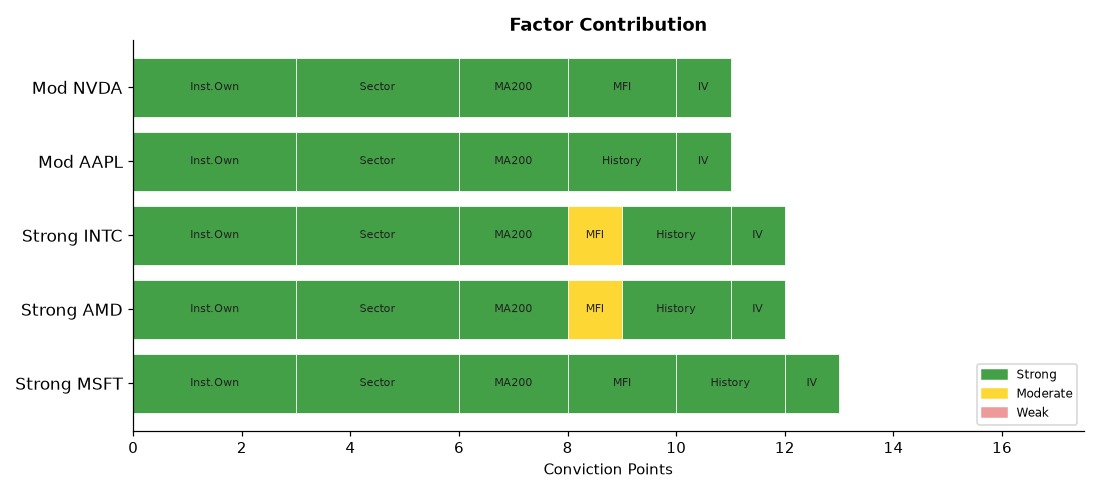
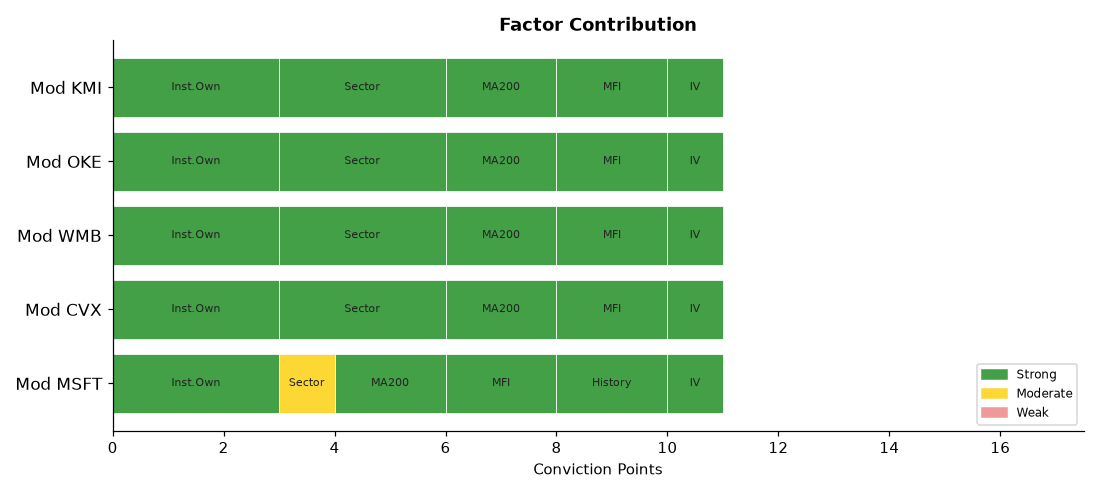
deploy: b7fadf5b06deb90e7ebb92f278722414bdd9750d

diff --git a/index.html b/index.html
@@ -4,7 +4,7 @@
   <meta charset="UTF-8">
   <meta name="viewport" content="width=device-width,initial-scale=1">
   <meta http-equiv="Cache-Control" content="no-cache,no-store,must-revalidate">
-  <title>Stock Breakout Screener — 2026-08-17 14:53</title>
+  <title>Stock Breakout Screener — 2026-08-17 17:32</title>
   <style>
     *{box-sizing:border-box;margin:0;padding:0}
     body{font-family:'Segoe UI',Arial,sans-serif;background:#f0f2f5;
@@ -34,20 +34,20 @@
 
 <div class="hdr">
   <h1>📈 Stock Breakout Screener</h1>
-  <p>Updated: 2026-08-17 14:53 UTC &nbsp;·&nbsp; Phase: Regular Market Hours &nbsp;·&nbsp;
+  <p>Updated: 2026-08-17 17:32 UTC &nbsp;·&nbsp; Phase: Regular Market Hours &nbsp;·&nbsp;
      129 stocks screened &nbsp;·&nbsp; Top 5 by conviction score</p>
 </div>
 
 <div class="card">
   <strong style="font-size:14px">Market Sentiment: 🐻 Bearish</strong>
   <div class="bar-wrap" style="margin-top:10px">
-    <div style="width:2%;background:#43a047"></div>
-    <div style="width:6%;background:#fdd835"></div>
+    <div style="width:0%;background:#43a047"></div>
+    <div style="width:8%;background:#fdd835"></div>
     <div style="width:92%;background:#e53935"></div>
   </div>
   <div style="font-size:12px;color:#555">
-    🟢 Strong 2% &nbsp;
-    🟡 Moderate 6% &nbsp;
+    🟢 Strong 0% &nbsp;
+    🟡 Moderate 8% &nbsp;
     🔴 Weak 92%
   </div>
 </div>
@@ -59,51 +59,17 @@
                     box-shadow:0 2px 6px rgba(0,0,0,.07)">
           <div style="display:flex;align-items:center;gap:10px;
                       flex-wrap:wrap;margin-bottom:10px">
-            <span style="font-size:22px">🟢</span>
+            <span style="font-size:22px">🟡</span>
             <span style="font-size:19px;font-weight:700">1. MSFT</span>
             <span style="font-size:12px;color:#666">Technology</span>
             <span style="margin-left:auto;background:#1a237e;color:#fff;
                          padding:3px 12px;border-radius:12px;
                          font-size:13px;font-weight:600">
-              13/17
+              11/17
             </span>
           </div>
           <ul style="margin:0;padding-left:18px;font-size:13px;
-                     color:#333;line-height:1.8"><li style="margin:5px 0"><span style="background:#ffebee;color:#b71c1c;padding:2px 7px;border-radius:4px;font-size:11px;">❌</span> Volume: <b>0.2× average</b> — Above-average activity</li><li style="margin:5px 0"><span style="background:#ffebee;color:#b71c1c;padding:2px 7px;border-radius:4px;font-size:11px;">❌</span> Candle: close <b>$482.66</b> vs open <b>$490.22</b> (-1.5%) — regular market close</li><li style="margin:5px 0"><span style="background:#e8f5e9;color:#2e7d32;padding:2px 7px;border-radius:4px;font-size:11px;">✅</span> 200-Day MA: price <b>$482.66</b> vs MA <b>$407.38</b> — <b>✅ Above</b> long-term trend</li><li style="margin:5px 0"><span style="background:#e8f5e9;color:#2e7d32;padding:2px 7px;border-radius:4px;font-size:11px;">✅</span> Inst. ownership: <b>75.9%</b> · MFI: <b>72.8</b> · Market cap: <b>$3585.2B</b></li><li style="margin:5px 0"><span style="background:#e8f5e9;color:#2e7d32;padding:2px 7px;border-radius:4px;font-size:11px;">✅</span> Last similar breakout: <b>Jul 30, 2026</b> → <b>+10.1%</b> over 10 trading days</li></ul>
-        </div>
-        <div style="background:#fff;border:1px solid #ddd;border-radius:10px;
-                    padding:16px 20px;margin-bottom:12px;
-                    box-shadow:0 2px 6px rgba(0,0,0,.07)">
-          <div style="display:flex;align-items:center;gap:10px;
-                      flex-wrap:wrap;margin-bottom:10px">
-            <span style="font-size:22px">🟢</span>
-            <span style="font-size:19px;font-weight:700">2. AMD</span>
-            <span style="font-size:12px;color:#666">Technology</span>
-            <span style="margin-left:auto;background:#1a237e;color:#fff;
-                         padding:3px 12px;border-radius:12px;
-                         font-size:13px;font-weight:600">
-              12/17
-            </span>
-          </div>
-          <ul style="margin:0;padding-left:18px;font-size:13px;
-                     color:#333;line-height:1.8"><li style="margin:5px 0"><span style="background:#ffebee;color:#b71c1c;padding:2px 7px;border-radius:4px;font-size:11px;">❌</span> Volume: <b>0.2× average</b> — Above-average activity</li><li style="margin:5px 0"><span style="background:#ffebee;color:#b71c1c;padding:2px 7px;border-radius:4px;font-size:11px;">❌</span> Candle: close <b>$510.53</b> vs open <b>$513.80</b> (-0.6%) — regular market close</li><li style="margin:5px 0"><span style="background:#e8f5e9;color:#2e7d32;padding:2px 7px;border-radius:4px;font-size:11px;">✅</span> 200-Day MA: price <b>$510.53</b> vs MA <b>$384.30</b> — <b>✅ Above</b> long-term trend</li><li style="margin:5px 0"><span style="background:#e8f5e9;color:#2e7d32;padding:2px 7px;border-radius:4px;font-size:11px;">✅</span> Inst. ownership: <b>75.4%</b> · MFI: <b>56.4</b> · Market cap: <b>$833.2B</b></li><li style="margin:5px 0"><span style="background:#e8f5e9;color:#2e7d32;padding:2px 7px;border-radius:4px;font-size:11px;">✅</span> Last similar breakout: <b>Apr 24, 2026</b> → <b>+30.9%</b> over 10 trading days</li></ul>
-        </div>
-        <div style="background:#fff;border:1px solid #ddd;border-radius:10px;
-                    padding:16px 20px;margin-bottom:12px;
-                    box-shadow:0 2px 6px rgba(0,0,0,.07)">
-          <div style="display:flex;align-items:center;gap:10px;
-                      flex-wrap:wrap;margin-bottom:10px">
-            <span style="font-size:22px">🟢</span>
-            <span style="font-size:19px;font-weight:700">3. INTC</span>
-            <span style="font-size:12px;color:#666">Technology</span>
-            <span style="margin-left:auto;background:#1a237e;color:#fff;
-                         padding:3px 12px;border-radius:12px;
-                         font-size:13px;font-weight:600">
-              12/17
-            </span>
-          </div>
-          <ul style="margin:0;padding-left:18px;font-size:13px;
-                     color:#333;line-height:1.8"><li style="margin:5px 0"><span style="background:#ffebee;color:#b71c1c;padding:2px 7px;border-radius:4px;font-size:11px;">❌</span> Volume: <b>0.3× average</b> — Above-average activity</li><li style="margin:5px 0"><span style="background:#ffebee;color:#b71c1c;padding:2px 7px;border-radius:4px;font-size:11px;">❌</span> Candle: close <b>$104.83</b> vs open <b>$103.70</b> (+1.1%) — regular market close</li><li style="margin:5px 0"><span style="background:#e8f5e9;color:#2e7d32;padding:2px 7px;border-radius:4px;font-size:11px;">✅</span> 200-Day MA: price <b>$104.83</b> vs MA <b>$87.50</b> — <b>✅ Above</b> long-term trend</li><li style="margin:5px 0"><span style="background:#e8f5e9;color:#2e7d32;padding:2px 7px;border-radius:4px;font-size:11px;">✅</span> Inst. ownership: <b>62.5%</b> · MFI: <b>56.2</b> · Market cap: <b>$553.3B</b></li><li style="margin:5px 0"><span style="background:#e8f5e9;color:#2e7d32;padding:2px 7px;border-radius:4px;font-size:11px;">✅</span> Last similar breakout: <b>Apr 29, 2026</b> → <b>+27.0%</b> over 10 trading days</li></ul>
+                     color:#333;line-height:1.8"><li style="margin:5px 0"><span style="background:#ffebee;color:#b71c1c;padding:2px 7px;border-radius:4px;font-size:11px;">❌</span> Volume: <b>0.4× average</b> — Above-average activity</li><li style="margin:5px 0"><span style="background:#ffebee;color:#b71c1c;padding:2px 7px;border-radius:4px;font-size:11px;">❌</span> Candle: close <b>$479.20</b> vs open <b>$490.22</b> (-2.2%) — regular market close</li><li style="margin:5px 0"><span style="background:#e8f5e9;color:#2e7d32;padding:2px 7px;border-radius:4px;font-size:11px;">✅</span> 200-Day MA: price <b>$479.20</b> vs MA <b>$407.35</b> — <b>✅ Above</b> long-term trend</li><li style="margin:5px 0"><span style="background:#e8f5e9;color:#2e7d32;padding:2px 7px;border-radius:4px;font-size:11px;">✅</span> Inst. ownership: <b>75.9%</b> · MFI: <b>71.9</b> · Market cap: <b>$3557.3B</b></li><li style="margin:5px 0"><span style="background:#e8f5e9;color:#2e7d32;padding:2px 7px;border-radius:4px;font-size:11px;">✅</span> Last similar breakout: <b>Jul 30, 2026</b> → <b>+10.1%</b> over 10 trading days</li></ul>
         </div>
         <div style="background:#fff;border:1px solid #ddd;border-radius:10px;
                     padding:16px 20px;margin-bottom:12px;
@@ -111,8 +77,8 @@
           <div style="display:flex;align-items:center;gap:10px;
                       flex-wrap:wrap;margin-bottom:10px">
             <span style="font-size:22px">🟡</span>
-            <span style="font-size:19px;font-weight:700">4. AAPL</span>
-            <span style="font-size:12px;color:#666">Technology</span>
+            <span style="font-size:19px;font-weight:700">2. CVX</span>
+            <span style="font-size:12px;color:#666">Energy</span>
             <span style="margin-left:auto;background:#1a237e;color:#fff;
                          padding:3px 12px;border-radius:12px;
                          font-size:13px;font-weight:600">
@@ -120,7 +86,7 @@
             </span>
           </div>
           <ul style="margin:0;padding-left:18px;font-size:13px;
-                     color:#333;line-height:1.8"><li style="margin:5px 0"><span style="background:#ffebee;color:#b71c1c;padding:2px 7px;border-radius:4px;font-size:11px;">❌</span> Volume: <b>0.6× average</b> — Above-average activity</li><li style="margin:5px 0"><span style="background:#ffebee;color:#b71c1c;padding:2px 7px;border-radius:4px;font-size:11px;">❌</span> Candle: close <b>$305.93</b> vs open <b>$306.00</b> (-0.0%) — regular market close</li><li style="margin:5px 0"><span style="background:#e8f5e9;color:#2e7d32;padding:2px 7px;border-radius:4px;font-size:11px;">✅</span> 200-Day MA: price <b>$305.93</b> vs MA <b>$287.08</b> — <b>✅ Above</b> long-term trend</li><li style="margin:5px 0"><span style="background:#e8f5e9;color:#2e7d32;padding:2px 7px;border-radius:4px;font-size:11px;">✅</span> Inst. ownership: <b>66.5%</b> · MFI: <b>44.0</b> · Market cap: <b>$4432.3B</b></li><li style="margin:5px 0"><span style="background:#e8f5e9;color:#2e7d32;padding:2px 7px;border-radius:4px;font-size:11px;">✅</span> Last similar breakout: <b>Jun 26, 2026</b> → <b>+11.8%</b> over 10 trading days</li></ul>
+                     color:#333;line-height:1.8"><li style="margin:5px 0"><span style="background:#ffebee;color:#b71c1c;padding:2px 7px;border-radius:4px;font-size:11px;">❌</span> Volume: <b>0.3× average</b> — Above-average activity</li><li style="margin:5px 0"><span style="background:#ffebee;color:#b71c1c;padding:2px 7px;border-radius:4px;font-size:11px;">❌</span> Candle: close <b>$202.84</b> vs open <b>$200.73</b> (+1.1%) — regular market close</li><li style="margin:5px 0"><span style="background:#e8f5e9;color:#2e7d32;padding:2px 7px;border-radius:4px;font-size:11px;">✅</span> 200-Day MA: price <b>$202.84</b> vs MA <b>$187.45</b> — <b>✅ Above</b> long-term trend</li><li style="margin:5px 0"><span style="background:#e8f5e9;color:#2e7d32;padding:2px 7px;border-radius:4px;font-size:11px;">✅</span> Inst. ownership: <b>71.1%</b> · MFI: <b>63.3</b> · Market cap: <b>$397.9B</b></li></ul>
         </div>
         <div style="background:#fff;border:1px solid #ddd;border-radius:10px;
                     padding:16px 20px;margin-bottom:12px;
@@ -128,8 +94,8 @@
           <div style="display:flex;align-items:center;gap:10px;
                       flex-wrap:wrap;margin-bottom:10px">
             <span style="font-size:22px">🟡</span>
-            <span style="font-size:19px;font-weight:700">5. NVDA</span>
-            <span style="font-size:12px;color:#666">Technology</span>
+            <span style="font-size:19px;font-weight:700">3. WMB</span>
+            <span style="font-size:12px;color:#666">Energy</span>
             <span style="margin-left:auto;background:#1a237e;color:#fff;
                          padding:3px 12px;border-radius:12px;
                          font-size:13px;font-weight:600">
@@ -137,7 +103,41 @@
             </span>
           </div>
           <ul style="margin:0;padding-left:18px;font-size:13px;
-                     color:#333;line-height:1.8"><li style="margin:5px 0"><span style="background:#ffebee;color:#b71c1c;padding:2px 7px;border-radius:4px;font-size:11px;">❌</span> Volume: <b>0.5× average</b> — Above-average activity</li><li style="margin:5px 0"><span style="background:#ffebee;color:#b71c1c;padding:2px 7px;border-radius:4px;font-size:11px;">❌</span> Candle: close <b>$225.16</b> vs open <b>$226.77</b> (-0.7%) — regular market close</li><li style="margin:5px 0"><span style="background:#e8f5e9;color:#2e7d32;padding:2px 7px;border-radius:4px;font-size:11px;">✅</span> 200-Day MA: price <b>$225.16</b> vs MA <b>$200.20</b> — <b>✅ Above</b> long-term trend</li><li style="margin:5px 0"><span style="background:#e8f5e9;color:#2e7d32;padding:2px 7px;border-radius:4px;font-size:11px;">✅</span> Inst. ownership: <b>66.2%</b> · MFI: <b>77.4</b> · Market cap: <b>$5467.6B</b></li></ul>
+                     color:#333;line-height:1.8"><li style="margin:5px 0"><span style="background:#ffebee;color:#b71c1c;padding:2px 7px;border-radius:4px;font-size:11px;">❌</span> Volume: <b>0.4× average</b> — Above-average activity</li><li style="margin:5px 0"><span style="background:#ffebee;color:#b71c1c;padding:2px 7px;border-radius:4px;font-size:11px;">❌</span> Candle: close <b>$74.34</b> vs open <b>$75.21</b> (-1.2%) — regular market close</li><li style="margin:5px 0"><span style="background:#e8f5e9;color:#2e7d32;padding:2px 7px;border-radius:4px;font-size:11px;">✅</span> 200-Day MA: price <b>$74.34</b> vs MA <b>$73.09</b> — <b>✅ Above</b> long-term trend</li><li style="margin:5px 0"><span style="background:#e8f5e9;color:#2e7d32;padding:2px 7px;border-radius:4px;font-size:11px;">✅</span> Inst. ownership: <b>91.4%</b> · MFI: <b>85.7</b> · Market cap: <b>$90.9B</b></li></ul>
+        </div>
+        <div style="background:#fff;border:1px solid #ddd;border-radius:10px;
+                    padding:16px 20px;margin-bottom:12px;
+                    box-shadow:0 2px 6px rgba(0,0,0,.07)">
+          <div style="display:flex;align-items:center;gap:10px;
+                      flex-wrap:wrap;margin-bottom:10px">
+            <span style="font-size:22px">🟡</span>
+            <span style="font-size:19px;font-weight:700">4. OKE</span>
+            <span style="font-size:12px;color:#666">Energy</span>
+            <span style="margin-left:auto;background:#1a237e;color:#fff;
+                         padding:3px 12px;border-radius:12px;
+                         font-size:13px;font-weight:600">
+              11/17
+            </span>
+          </div>
+          <ul style="margin:0;padding-left:18px;font-size:13px;
+                     color:#333;line-height:1.8"><li style="margin:5px 0"><span style="background:#ffebee;color:#b71c1c;padding:2px 7px;border-radius:4px;font-size:11px;">❌</span> Volume: <b>0.2× average</b> — Above-average activity</li><li style="margin:5px 0"><span style="background:#ffebee;color:#b71c1c;padding:2px 7px;border-radius:4px;font-size:11px;">❌</span> Candle: close <b>$94.75</b> vs open <b>$95.17</b> (-0.4%) — regular market close</li><li style="margin:5px 0"><span style="background:#e8f5e9;color:#2e7d32;padding:2px 7px;border-radius:4px;font-size:11px;">✅</span> 200-Day MA: price <b>$94.75</b> vs MA <b>$87.12</b> — <b>✅ Above</b> long-term trend</li><li style="margin:5px 0"><span style="background:#e8f5e9;color:#2e7d32;padding:2px 7px;border-radius:4px;font-size:11px;">✅</span> Inst. ownership: <b>84.8%</b> · MFI: <b>66.8</b> · Market cap: <b>$59.7B</b></li></ul>
+        </div>
+        <div style="background:#fff;border:1px solid #ddd;border-radius:10px;
+                    padding:16px 20px;margin-bottom:12px;
+                    box-shadow:0 2px 6px rgba(0,0,0,.07)">
+          <div style="display:flex;align-items:center;gap:10px;
+                      flex-wrap:wrap;margin-bottom:10px">
+            <span style="font-size:22px">🟡</span>
+            <span style="font-size:19px;font-weight:700">5. KMI</span>
+            <span style="font-size:12px;color:#666">Energy</span>
+            <span style="margin-left:auto;background:#1a237e;color:#fff;
+                         padding:3px 12px;border-radius:12px;
+                         font-size:13px;font-weight:600">
+              11/17
+            </span>
+          </div>
+          <ul style="margin:0;padding-left:18px;font-size:13px;
+                     color:#333;line-height:1.8"><li style="margin:5px 0"><span style="background:#ffebee;color:#b71c1c;padding:2px 7px;border-radius:4px;font-size:11px;">❌</span> Volume: <b>0.4× average</b> — Above-average activity</li><li style="margin:5px 0"><span style="background:#ffebee;color:#b71c1c;padding:2px 7px;border-radius:4px;font-size:11px;">❌</span> Candle: close <b>$32.52</b> vs open <b>$32.83</b> (-0.9%) — regular market close</li><li style="margin:5px 0"><span style="background:#e8f5e9;color:#2e7d32;padding:2px 7px;border-radius:4px;font-size:11px;">✅</span> 200-Day MA: price <b>$32.52</b> vs MA <b>$32.03</b> — <b>✅ Above</b> long-term trend</li><li style="margin:5px 0"><span style="background:#e8f5e9;color:#2e7d32;padding:2px 7px;border-radius:4px;font-size:11px;">✅</span> Inst. ownership: <b>70.9%</b> · MFI: <b>61.3</b> · Market cap: <b>$72.3B</b></li></ul>
         </div>
 
 
@@ -168,90 +168,90 @@
   
         <tr>
           <td style="font-weight:700;text-align:left;padding-left:10px">
-            🟢 MSFT</td>
-          <td style="background:#ffcdd2">0.2×</td>
-          <td style="background:#ffcdd2">-1.5%</td>
+            🟡 MSFT</td>
+          <td style="background:#ffcdd2">0.4×</td>
+          <td style="background:#ffcdd2">-2.2%</td>
           <td style="background:#c8e6c9">
             ▲ Above</td>
           <td style="background:#c8e6c9">
             75.9%</td>
           <td style="background:#c8e6c9">
-            72.8</td>
-          <td style="background:#c8e6c9">Technology</td>
+            71.9</td>
+          <td style="background:#fff9c4">Technology</td>
           <td style="background:#c8e6c9">
-            99.0%</td>
+            98.6%</td>
           <td style="background:#c8e6c9">
             +10.1%</td>
-          <td style="font-weight:800;font-size:15px">13/17</td>
+          <td style="font-weight:800;font-size:15px">11/17</td>
         </tr>
         <tr>
           <td style="font-weight:700;text-align:left;padding-left:10px">
-            🟢 AMD</td>
-          <td style="background:#ffcdd2">0.2×</td>
-          <td style="background:#ffcdd2">-0.6%</td>
-          <td style="background:#c8e6c9">
-            ▲ Above</td>
-          <td style="background:#c8e6c9">
-            75.4%</td>
-          <td style="background:#fff9c4">
-            56.4</td>
-          <td style="background:#c8e6c9">Technology</td>
-          <td style="background:#c8e6c9">
-            150.0%</td>
-          <td style="background:#c8e6c9">
-            +30.9%</td>
-          <td style="font-weight:800;font-size:15px">12/17</td>
-        </tr>
-        <tr>
-          <td style="font-weight:700;text-align:left;padding-left:10px">
-            🟢 INTC</td>
+            🟡 CVX</td>
           <td style="background:#ffcdd2">0.3×</td>
           <td style="background:#ffcdd2">+1.1%</td>
           <td style="background:#c8e6c9">
             ▲ Above</td>
           <td style="background:#c8e6c9">
-            62.5%</td>
-          <td style="background:#fff9c4">
-            56.2</td>
-          <td style="background:#c8e6c9">Technology</td>
+            71.1%</td>
           <td style="background:#c8e6c9">
-            40.9%</td>
+            63.3</td>
+          <td style="background:#c8e6c9">Energy</td>
           <td style="background:#c8e6c9">
-            +27.0%</td>
-          <td style="font-weight:800;font-size:15px">12/17</td>
-        </tr>
-        <tr>
-          <td style="font-weight:700;text-align:left;padding-left:10px">
-            🟡 AAPL</td>
-          <td style="background:#ffcdd2">0.6×</td>
-          <td style="background:#ffcdd2">-0.0%</td>
-          <td style="background:#c8e6c9">
-            ▲ Above</td>
-          <td style="background:#c8e6c9">
-            66.5%</td>
+            68.2%</td>
           <td style="background:#ffcdd2">
-            44.0</td>
-          <td style="background:#c8e6c9">Technology</td>
-          <td style="background:#c8e6c9">
-            121.9%</td>
-          <td style="background:#c8e6c9">
-            +11.8%</td>
+            N/A</td>
           <td style="font-weight:800;font-size:15px">11/17</td>
         </tr>
         <tr>
           <td style="font-weight:700;text-align:left;padding-left:10px">
-            🟡 NVDA</td>
-          <td style="background:#ffcdd2">0.5×</td>
-          <td style="background:#ffcdd2">-0.7%</td>
+            🟡 WMB</td>
+          <td style="background:#ffcdd2">0.4×</td>
+          <td style="background:#ffcdd2">-1.2%</td>
           <td style="background:#c8e6c9">
             ▲ Above</td>
           <td style="background:#c8e6c9">
-            66.2%</td>
+            91.4%</td>
           <td style="background:#c8e6c9">
-            77.4</td>
-          <td style="background:#c8e6c9">Technology</td>
+            85.7</td>
+          <td style="background:#c8e6c9">Energy</td>
           <td style="background:#c8e6c9">
-            254.9%</td>
+            95.4%</td>
+          <td style="background:#ffcdd2">
+            N/A</td>
+          <td style="font-weight:800;font-size:15px">11/17</td>
+        </tr>
+        <tr>
+          <td style="font-weight:700;text-align:left;padding-left:10px">
+            🟡 OKE</td>
+          <td style="background:#ffcdd2">0.2×</td>
+          <td style="background:#ffcdd2">-0.4%</td>
+          <td style="background:#c8e6c9">
+            ▲ Above</td>
+          <td style="background:#c8e6c9">
+            84.8%</td>
+          <td style="background:#c8e6c9">
+            66.8</td>
+          <td style="background:#c8e6c9">Energy</td>
+          <td style="background:#c8e6c9">
+            114.4%</td>
+          <td style="background:#ffcdd2">
+            N/A</td>
+          <td style="font-weight:800;font-size:15px">11/17</td>
+        </tr>
+        <tr>
+          <td style="font-weight:700;text-align:left;padding-left:10px">
+            🟡 KMI</td>
+          <td style="background:#ffcdd2">0.4×</td>
+          <td style="background:#ffcdd2">-0.9%</td>
+          <td style="background:#c8e6c9">
+            ▲ Above</td>
+          <td style="background:#c8e6c9">
+            70.9%</td>
+          <td style="background:#c8e6c9">
+            61.3</td>
+          <td style="background:#c8e6c9">Energy</td>
+          <td style="background:#c8e6c9">
+            63.5%</td>
           <td style="background:#ffcdd2">
             N/A</td>
           <td style="font-weight:800;font-size:15px">11/17</td>
@@ -277,58 +277,58 @@
       
         <tr>
           <td style="text-align:left;padding-left:10px;font-weight:600">
-            #1 Technology</td>
-          <td style="background:#e8f5e9;color:#2e7d32;font-weight:700">+0.59%</td>
+            #1 Energy</td>
+          <td style="background:#e8f5e9;color:#2e7d32;font-weight:700">+0.91%</td>
         </tr>
         <tr>
           <td style="text-align:left;padding-left:10px;font-weight:600">
-            #2 Energy</td>
-          <td style="background:#e8f5e9;color:#2e7d32;font-weight:700">+0.52%</td>
+            #2 Industrials</td>
+          <td style="background:#e8f5e9;color:#2e7d32;font-weight:700">+0.41%</td>
         </tr>
         <tr>
           <td style="text-align:left;padding-left:10px;font-weight:600">
-            #3 Industrials</td>
-          <td style="background:#e8f5e9;color:#2e7d32;font-weight:700">+0.24%</td>
+            #3 Technology</td>
+          <td style="background:#e8f5e9;color:#2e7d32;font-weight:700">+0.32%</td>
         </tr>
         <tr>
           <td style="text-align:left;padding-left:10px;font-weight:600">
             #4 Healthcare</td>
-          <td style="background:#e8f5e9;color:#2e7d32;font-weight:700">+0.18%</td>
+          <td style="background:#e8f5e9;color:#2e7d32;font-weight:700">+0.01%</td>
         </tr>
         <tr>
           <td style="text-align:left;padding-left:10px;font-weight:600">
             #5 Financials</td>
-          <td style="background:#ffebee;color:#c62828;font-weight:700">-0.40%</td>
+          <td style="background:#ffebee;color:#c62828;font-weight:700">-0.44%</td>
         </tr>
         <tr>
           <td style="text-align:left;padding-left:10px;font-weight:600">
-            #6 Materials</td>
+            #6 Utilities</td>
           <td style="background:#ffebee;color:#c62828;font-weight:700">-0.45%</td>
         </tr>
         <tr>
           <td style="text-align:left;padding-left:10px;font-weight:600">
-            #7 Utilities</td>
-          <td style="background:#ffebee;color:#c62828;font-weight:700">-0.49%</td>
+            #7 Materials</td>
+          <td style="background:#ffebee;color:#c62828;font-weight:700">-0.56%</td>
         </tr>
         <tr>
           <td style="text-align:left;padding-left:10px;font-weight:600">
-            #8 Consumer Disc</td>
-          <td style="background:#ffebee;color:#c62828;font-weight:700">-0.79%</td>
+            #8 Real Estate</td>
+          <td style="background:#ffebee;color:#c62828;font-weight:700">-0.85%</td>
         </tr>
         <tr>
           <td style="text-align:left;padding-left:10px;font-weight:600">
-            #9 Real Estate</td>
-          <td style="background:#ffebee;color:#c62828;font-weight:700">-0.84%</td>
+            #9 Consumer Disc</td>
+          <td style="background:#ffebee;color:#c62828;font-weight:700">-1.31%</td>
         </tr>
         <tr>
           <td style="text-align:left;padding-left:10px;font-weight:600">
             #10 Consumer Stpl</td>
-          <td style="background:#ffebee;color:#c62828;font-weight:700">-1.06%</td>
+          <td style="background:#ffebee;color:#c62828;font-weight:700">-1.56%</td>
         </tr>
         <tr>
           <td style="text-align:left;padding-left:10px;font-weight:600">
             #11 Comm. Services</td>
-          <td style="background:#ffebee;color:#c62828;font-weight:700">-1.24%</td>
+          <td style="background:#ffebee;color:#c62828;font-weight:700">-1.90%</td>
         </tr>
     </table>
   </div>
@@ -367,7 +367,7 @@
         <li><b>Scoring weights:</b>
             Inst.Own(3) · Sector(3) · Volume(2) · Breakout(2) ·
             MA200(2) · MFI(2) · History(2) · IV(1) = 17pts max</li>
-        <li><b>Run time:</b> 2026-08-17 14:53 UTC — Market phase: Regular Market Hours</li>
+        <li><b>Run time:</b> 2026-08-17 17:32 UTC — Market phase: Regular Market Hours</li>
       </ul>
     </div>
 
